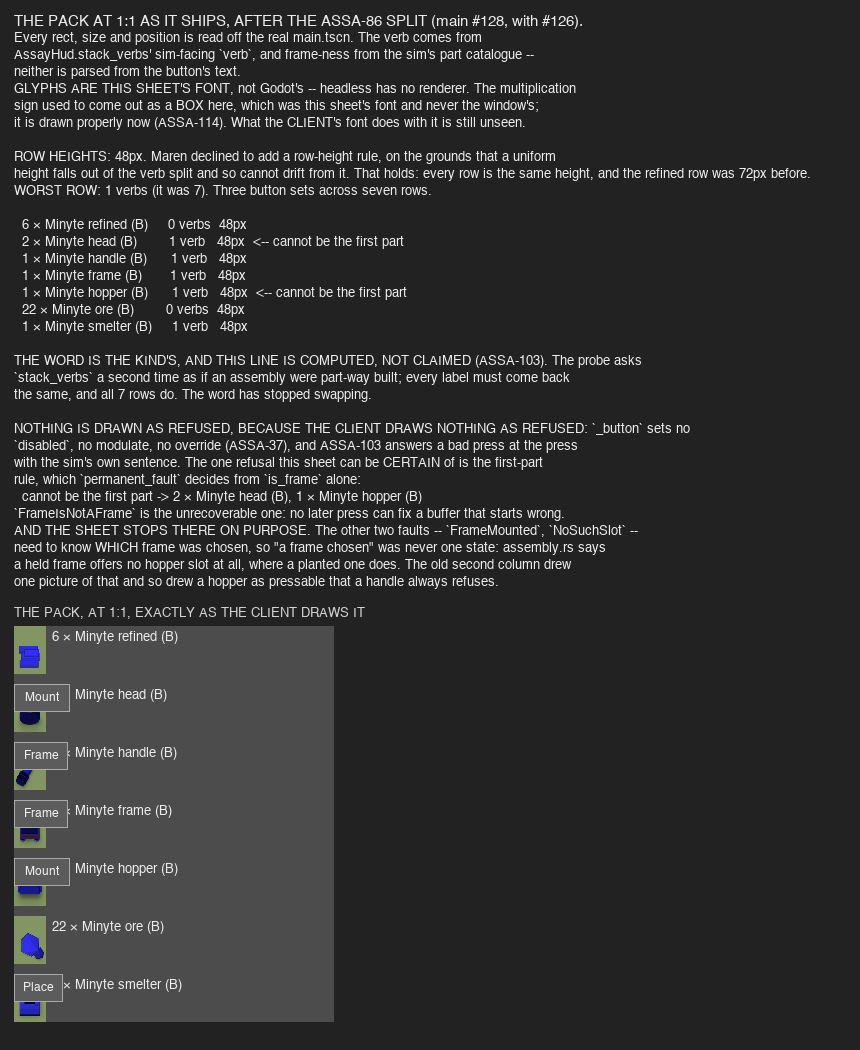
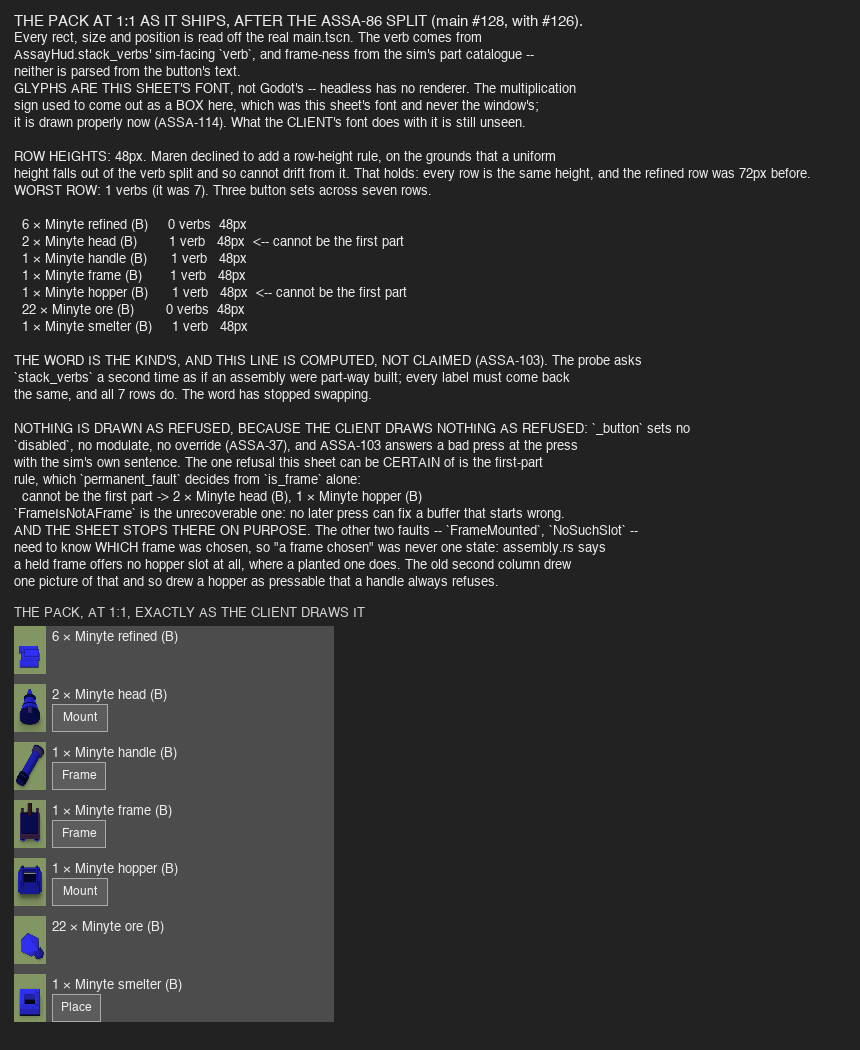
The pack probe opens the tab it measures, and says which window (ASSA-319) (#448)
* The pack probe opens the tab it measures, and says which window (ASSA-319)

NOT FINISHED, AND PUSHED ANYWAY so it is not only on my disk: the three review
sheets drawn from this probe still have to be rebuilt before CI can be green
(`check_review_layout` digests the whole probe answer), so there is no PR.

`art/pack_icon_layout.gd` has measured a layout nobody can see since ASSA-264
put the pack list in a TAB. `mineralogy` is the tab that opens - Maren's ruling,
because you enter a world carrying nothing - and an invisible container is never
laid out, so what its children keep is their own `custom_minimum_size`. For a
pack row that happens to be the real size, which is why six checks have scored
it right by luck. Measured on this Mac, main 1465572:

    row_size   156-175 x 48   hidden tab, 64px window
    row_size   300 x 48       tab open, window declared
    icon rect / drawn / plate_rect   32x48 either way

So the width was 125-144 px out and every number the checks actually read is
identical - Limpet's no-op prediction holding on my instrument too.

The probe now does what `client/tools/make_icon_layout.gd` had to learn first:
sets `root.size` from `ProjectSettings` EVERY frame (the engine shrinks the root
viewport to 64x64 on frame one), presses the tab through `AssayTabStrip.select`
refusing loudly if it cannot, and REPORTS the states its numbers are only valid
in. The refusal lives in `ask_layout.trust` and not in each check, for that
[…]

Changed region(s): [[0.0, 0.64, 0.1209, 0.8533], [0.0, 0.9143, 0.1209, 0.9752]]

diff --git a/sim-game/art/ask_layout.py b/sim-game/art/ask_layout.py
@@ -92,10 +92,58 @@ def ask_the_engine(because, probe=None):
             "ICON_GODOT_TIMEOUT=<seconds>." % (TIMEOUT, os.path.relpath(CLIENT, ROOT)))
     for line in p.stdout.splitlines():
         if line.startswith("LAYOUT_JSON "):
-            return json.loads(line[len("LAYOUT_JSON "):])
+            return trust(json.loads(line[len("LAYOUT_JSON "):]), because)
     blob = p.stdout + p.stderr
     raise CannotCheck("the probe printed no LAYOUT_JSON.%s\n--- godot said ---\n%s"
                       % (diagnose(blob), excerpt(blob)))
+
+
+def trust(answer, because):
+    """THE PROBE'S OWN SELF-REPORT, REFUSED IN ONE PLACE FOR EVERY CHECK THAT READS IT.
+
+    ASSA-319. A probe can answer perfectly about a layout nobody will ever see, and for a
+    year this one did: the pack list has been a TAB since ASSA-264 and `mineralogy` is the
+    tab that opens, so `_carrying` was never visible, and an invisible container is never
+    laid out -- what its children keep is their own MINIMUM size. For a pack row that
+    happens to be the real size, so six checks scored it right by luck. Same shape on the
+    make list, whose sentence is `EXPAND_FILL`: five rows 95 px wide and 837 to 1361 px
+    tall, scored green over all of it. The window was the same story -- `--script` leaves
+    the root viewport at 64x64 unless a probe sets it every frame.
+
+    SO THE REFUSAL LIVES HERE AND NOT IN THE CHECKS, for this module's own reason: a copy
+    of a rule is a copy, and this one would be seven copies. A check that reads these rows
+    is asking what the engine DREW, and neither a collapsed container nor a 64 px window
+    can answer that -- so it is `CannotCheck`, which every caller turns into EXIT 2, never
+    a pass and never a red.
+
+    IT ONLY JUDGES WHAT THE PROBE VOLUNTEERS. Two probes answer through here (the pack's
+    and the crafting menu's), their JSON has different shapes, and a key that is absent is
+    not a failure: an older probe that reports neither state is exactly as trusted as it
+    was before, and gets no false confidence either.
+
+    **AND IT JUDGES THE TAB, NOT `is_visible_in_tree`, WHICH I FOUND OUT BY MEASURING.**
+    The obvious gate is the pack container's visibility, and on the pack probe it is FALSE
+    even when the layout is perfect: pressing the tab moved every row from its minimum
+    (156-175 px wide) to its laid-out 300, and the flag stayed false, because that probe
+    never joins a world and the screen the column hangs under is not on display. Keyed on
+    it, this function would have refused all seven checks that read the probe while they
+    were measuring the right thing. `pack_box` is reported beside the rows for a reader who
+    wants to tell a width from a minimum.
+    """
+    if answer.get("pack_tab_selected") is False:
+        raise CannotCheck(
+            "the probe measured the pack list without its TAB open, so every rect it reported\n"
+            "is a `custom_minimum_size` and not a drawn size -- an invisible container is\n"
+            "never laid out. Press it through `AssayTabStrip.select` before measuring.\n"
+            "Deliberately not a pass: %s" % because)
+    got, want = answer.get("viewport"), answer.get("viewport_declared")
+    if got and want and list(got) != list(want):
+        raise CannotCheck(
+            "the probe measured a %sx%s window; the project declares %sx%s. Under `--script`\n"
+            "the engine shrinks the root viewport on frame one, so `root.size` has to be set\n"
+            "every frame, not once.\nDeliberately not a pass: %s"
+            % (got[0], got[1], want[0], want[1], because))
+    return answer
 
 
 # A method the GDScript asks for that the registered class does not have. This is what a
